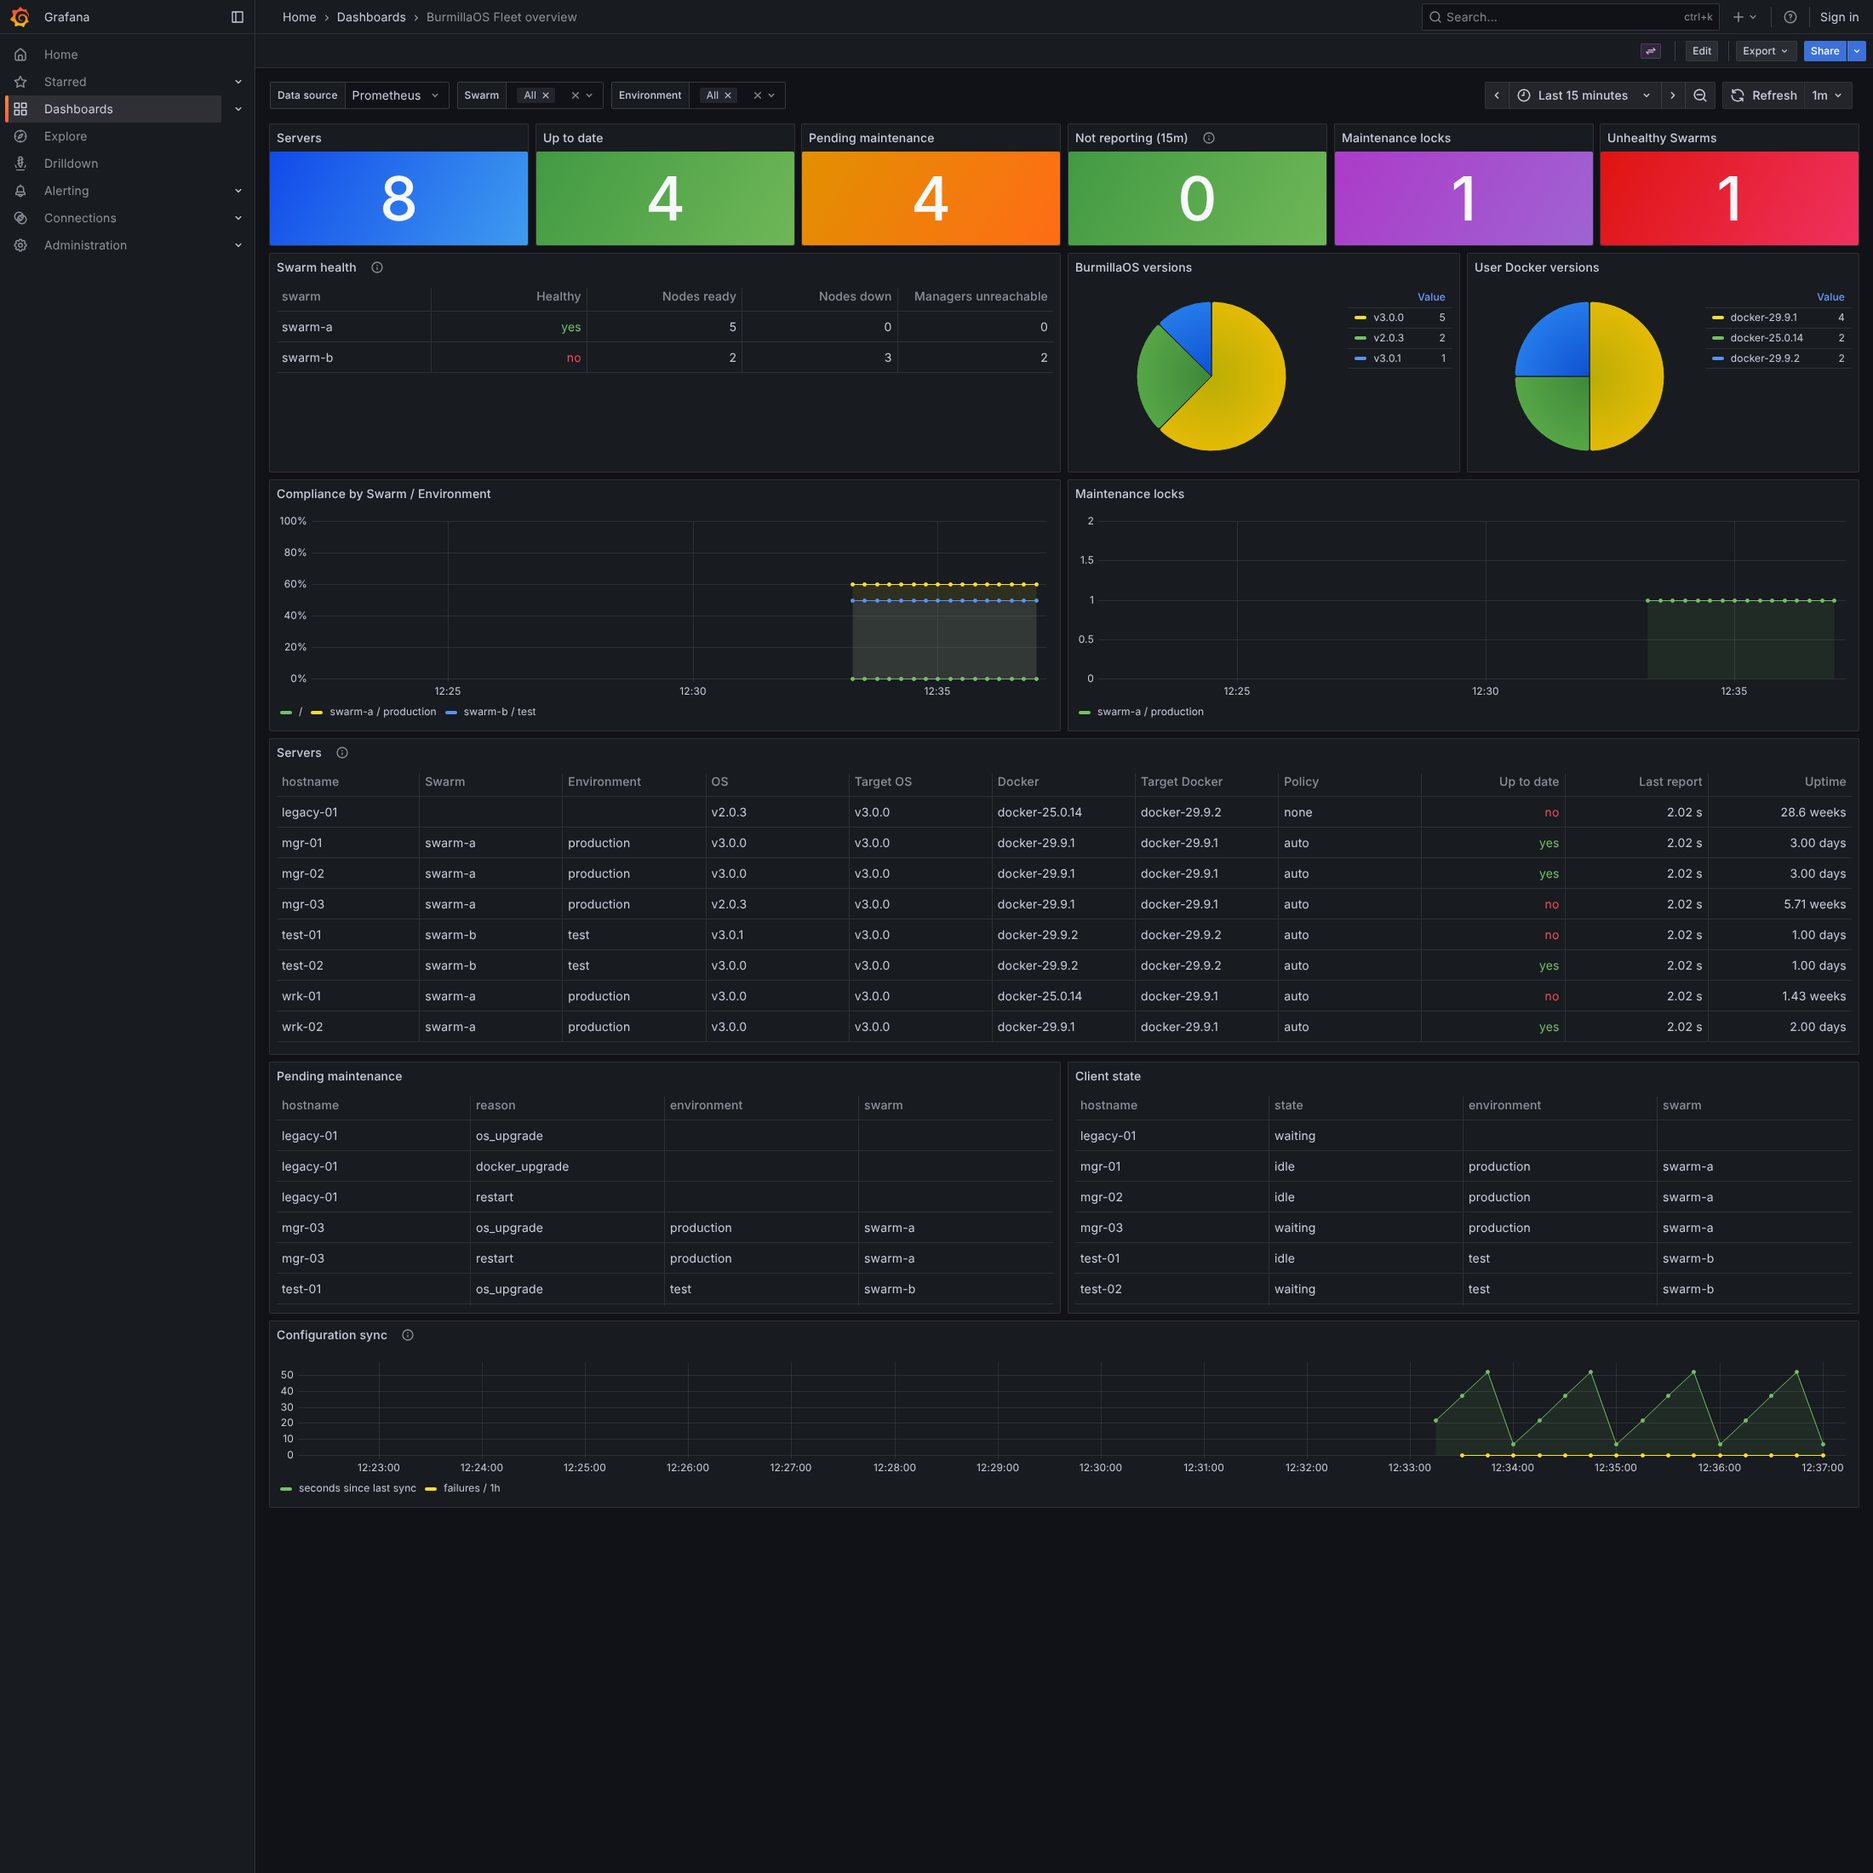
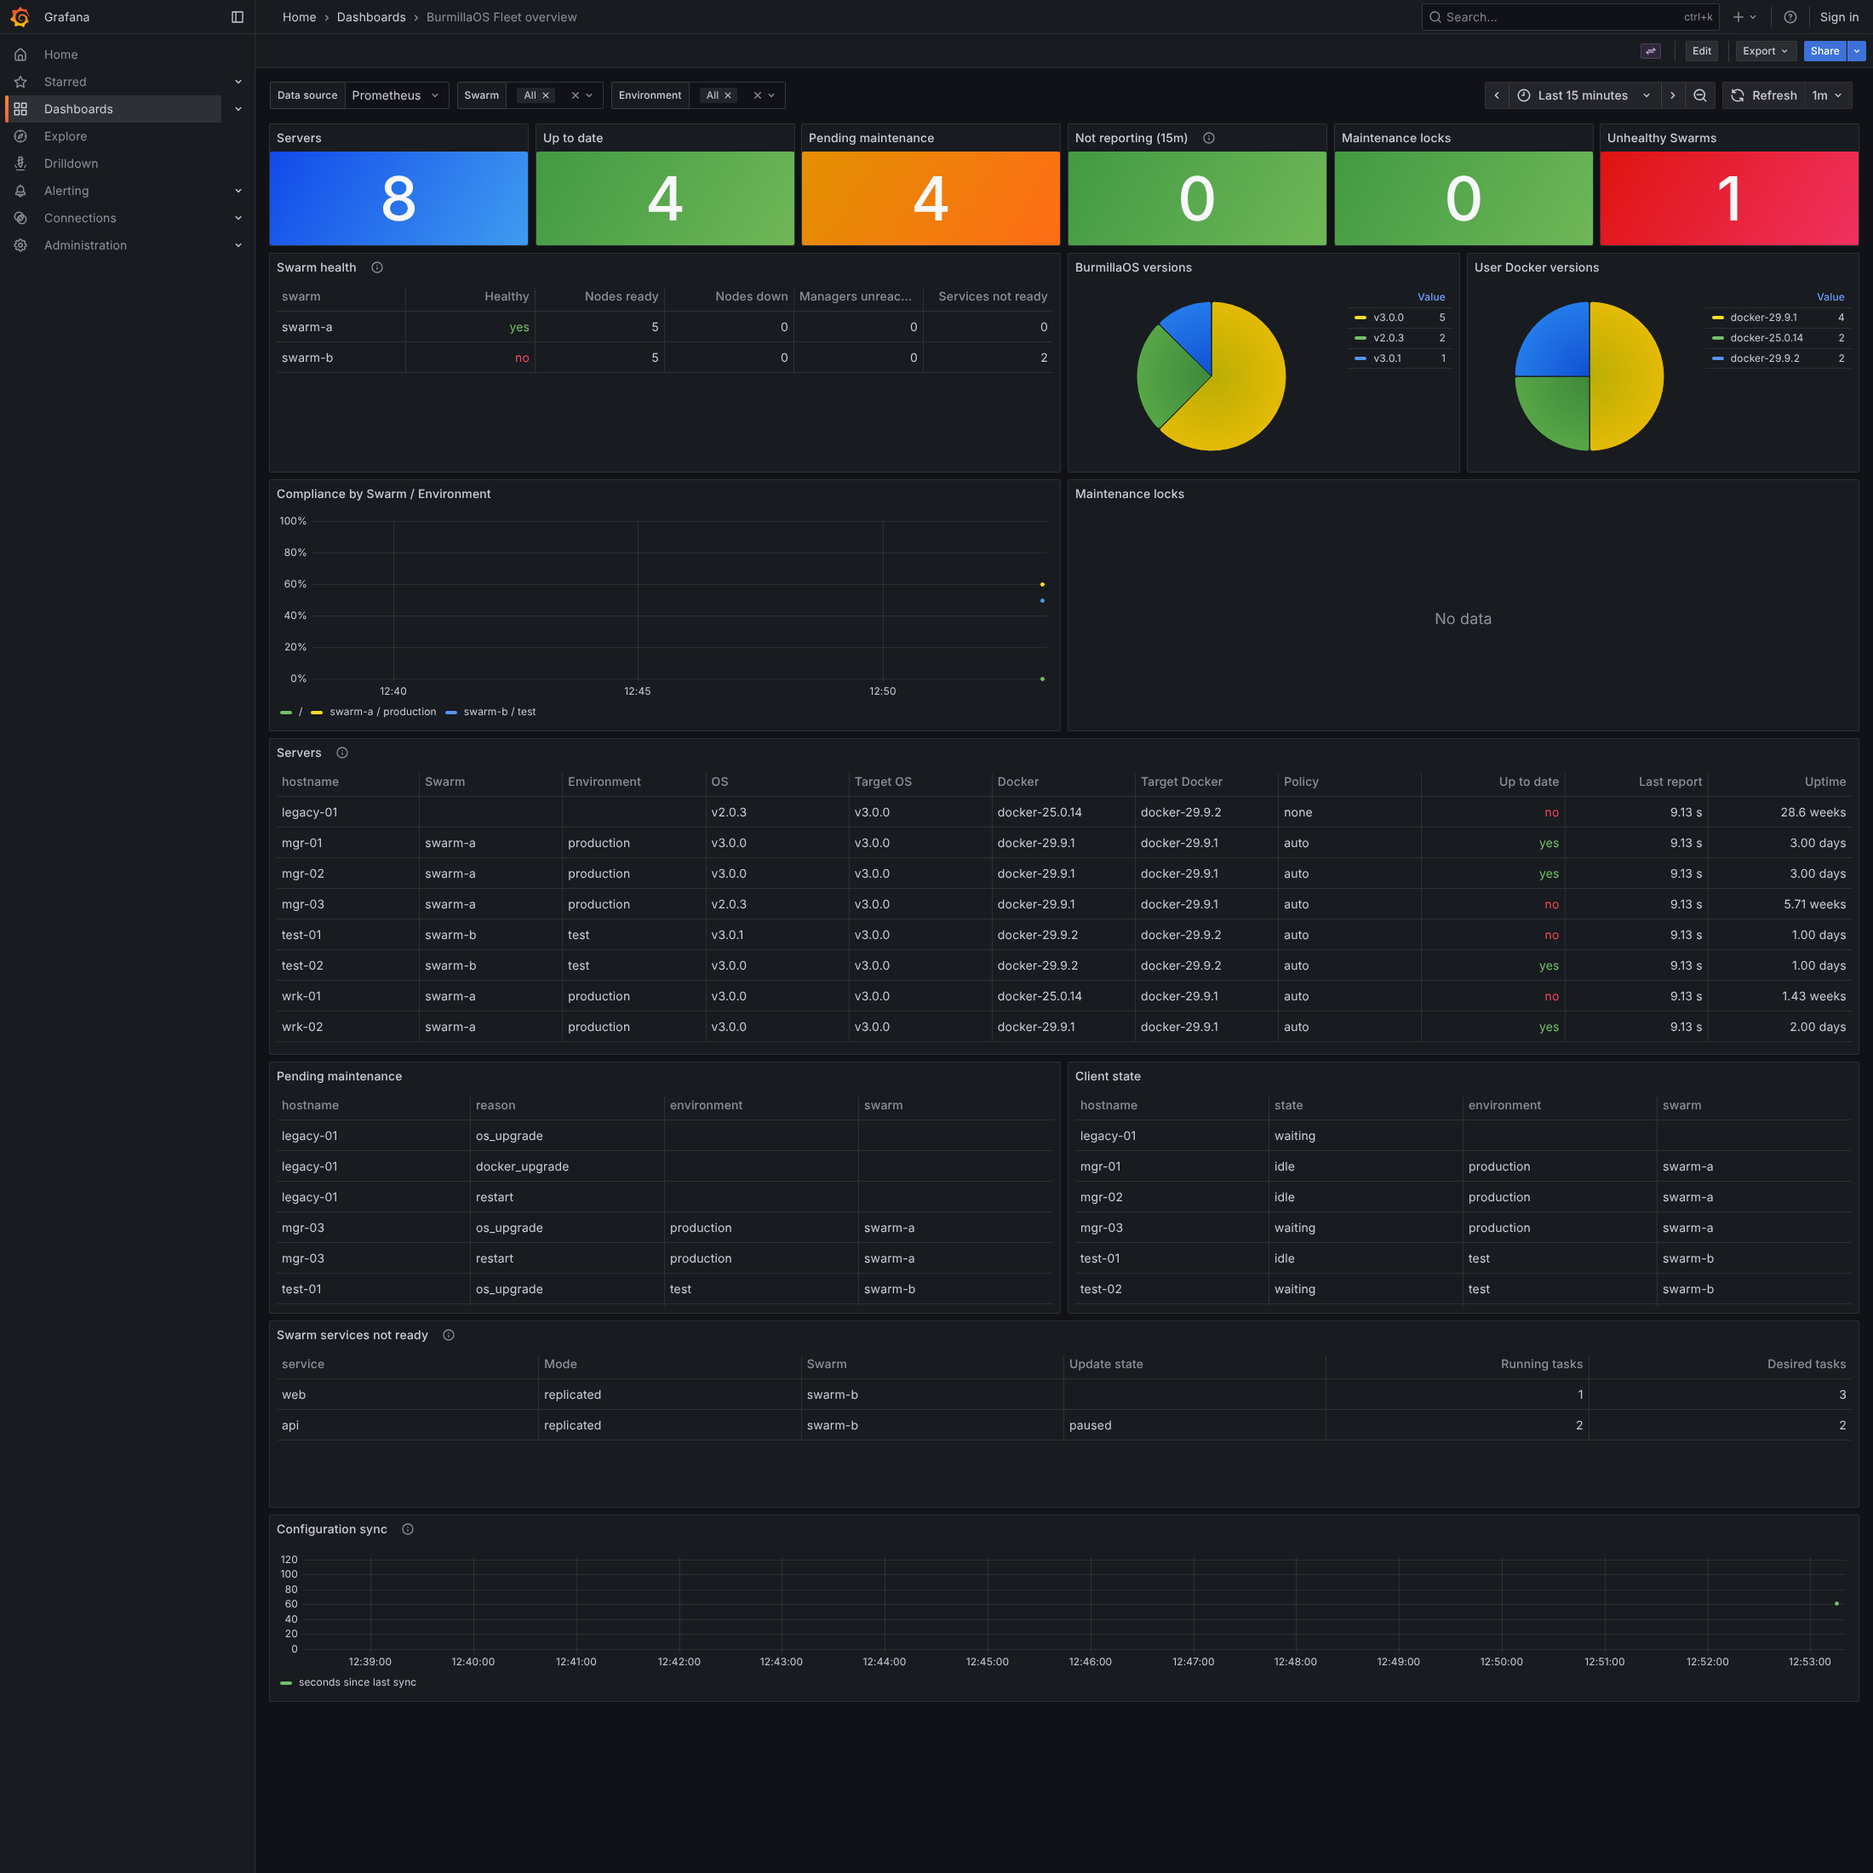
Require all Swarm services to be ready for maintenance locks
A maintenance lock is now granted, and released, only when every Swarm
service runs all of its desired tasks with its target configuration (no
update in progress, paused or rolling back). Global services may miss the
tasks of servers in maintenance. Managers report the service states, which
are also published as metrics and shown on the overview dashboard.

Claude-Session: https://claude.ai/code/session_01VTCWatDUuDVSNAoSnohWye

diff --git a/internal/server/server_test.go b/internal/server/server_test.go
@@ -78,11 +78,12 @@ func (e *env) get(path string) []byte {
 
 // report sends a healthy report. Managers see ready nodes out of 4 and
 // reachable managers out of 3.
-func (e *env) report(host, osVersion string, ready, reachable int) fleet.Desired {
+func (e *env) report(host, osVersion string, ready, reachable int, notReady ...ServiceState) fleet.Desired {
 	e.t.Helper()
 	st := &SwarmStatus{NodeID: host, ClusterID: "c1", LocalNodeState: "active"}
 	if strings.HasPrefix(host, "m") {
 		st.Manager, st.Nodes, st.NodesReady, st.Managers, st.ManagersReachable = true, 4, ready, 3, reachable
+		st.Services, st.ServicesReady, st.ServicesNotReady = 5, 5-len(notReady), notReady
 	}
 	code, body := e.post("/api/v1/report", Report{Hostname: host, OSVersion: osVersion, DockerVersion: "docker-29.9.2",
 		BootTime: e.now.Add(-time.Hour), State: "idle", SwarmStatus: st})
@@ -144,6 +145,19 @@ func TestMaintenanceLockFollowsSwarmHealth(t *testing.T) {
 	}
 	e.s.Store.Release("w1")
 
+	// Global services may miss the task of the server in maintenance,
+	// replicated services must be rescheduled first.
+	e.report("m2", "v2.0.3", 3, 2, ServiceState{Name: "agent", Mode: "global", DesiredTasks: 4, RunningTasks: 3})
+	if ok, msg := e.lock("w1"); !ok {
+		t.Fatalf("missing global task of the lock holder is fine: %s", msg)
+	}
+	e.s.Store.Release("w1")
+	e.report("m2", "v2.0.3", 3, 2, ServiceState{Name: "web", Mode: "replicated", DesiredTasks: 3, RunningTasks: 2})
+	if ok, msg := e.lock("w1"); ok || msg != "service web runs 2 of 3 tasks (Swarm s1, seen by m2)" {
+		t.Fatalf("missing replica must block: %s", msg)
+	}
+	e.report("m2", "v2.0.3", 3, 2)
+
 	// m1 is upgraded but the Swarm still sees it down: keep the lock.
 	e.now = e.now.Add(time.Minute)
 	if d := e.report("m1", "v3.0.0", 3, 2); d.MaintenanceRequired {
@@ -152,7 +166,13 @@ func TestMaintenanceLockFollowsSwarmHealth(t *testing.T) {
 	if _, held := e.s.Store.Locks(e.now)["m1"]; !held {
 		t.Fatal("lock must be kept until the Swarm is healthy")
 	}
-	// Once a manager sees all nodes ready, the next report releases it.
+	// All nodes are back but a service update is still rolling out.
+	updating := ServiceState{Name: "api", Mode: "replicated", DesiredTasks: 2, RunningTasks: 2, UpdateState: "updating"}
+	e.report("m1", "v3.0.0", 4, 3, updating)
+	if _, held := e.s.Store.Locks(e.now)["m1"]; !held {
+		t.Fatal("lock must be kept while a service is not at its target configuration")
+	}
+	// Once a manager sees everything ready, the next report releases it.
 	e.report("m2", "v2.0.3", 4, 3)
 	e.report("m1", "v3.0.0", 4, 3)
 	if _, held := e.s.Store.Locks(e.now)["m1"]; held {
@@ -175,6 +195,7 @@ func TestMaintenanceLockFollowsSwarmHealth(t *testing.T) {
 		`burmilla_fleet_server_maintenance_required{hostname="w1",swarm="s1",environment="prod",reason="os_upgrade"} 1`,
 		`burmilla_fleet_swarm_healthy{swarm="s1"} 0`,
 		`burmilla_fleet_swarm_nodes{swarm="s1",state="ready"} 4`,
+		`burmilla_fleet_swarm_services{swarm="s1",state="ready"} 5`,
 		`burmilla_fleet_config_info{revision="abc"} 1`,
 		`burmilla_fleet_config_sync_success 1`,
 	} {

diff --git a/internal/server/metrics.go b/internal/server/metrics.go
@@ -68,6 +68,9 @@ func (s *Server) handleMetrics(w http.ResponseWriter, r *http.Request) {
 		swHealth = &metric{name: "burmilla_fleet_swarm_healthy", help: "Whether the whole Swarm is healthy (servers in maintenance excluded).", typ: "gauge"}
 		swNodes  = &metric{name: "burmilla_fleet_swarm_nodes", help: "Swarm nodes as seen by the freshest manager report.", typ: "gauge"}
 		swMgrs   = &metric{name: "burmilla_fleet_swarm_managers", help: "Swarm managers as seen by the freshest manager report.", typ: "gauge"}
+		swSvcs   = &metric{name: "burmilla_fleet_swarm_services", help: "Swarm services by readiness as seen by the freshest manager report.", typ: "gauge"}
+		svcRun   = &metric{name: "burmilla_fleet_swarm_service_running_tasks", help: "Running tasks of Swarm services which are not ready.", typ: "gauge"}
+		svcWant  = &metric{name: "burmilla_fleet_swarm_service_desired_tasks", help: "Desired tasks of Swarm services which are not ready.", typ: "gauge"}
 	)
 
 	s.syncMu.Lock()
@@ -95,9 +98,11 @@ func (s *Server) handleMetrics(w http.ResponseWriter, r *http.Request) {
 		), 1)
 		window.add(base, b2f(d.MaintenanceWindowActive))
 		reason := ""
+		group := [2]string{d.Swarm, d.Environment}
+		lockCount[group] += 0 // every group gets a series, also without locks
 		if st.Lock != nil {
 			reason = st.Lock.Reason
-			lockCount[[2]string{d.Swarm, d.Environment}]++
+			lockCount[group]++
 		}
 		lockHeld.add(with([2]string{"reason", reason}), b2f(st.Lock != nil))
 		if st.Reported == nil {
@@ -139,11 +144,18 @@ func (s *Server) handleMetrics(w http.ResponseWriter, r *http.Request) {
 			swNodes.add(append(l, [2]string{"state", "down"}), float64(h.Status.Nodes-h.Status.NodesReady))
 			swMgrs.add(append(l, [2]string{"state", "reachable"}), float64(h.Status.ManagersReachable))
 			swMgrs.add(append(l, [2]string{"state", "unreachable"}), float64(h.Status.Managers-h.Status.ManagersReachable))
+			swSvcs.add(append(l, [2]string{"state", "ready"}), float64(h.Status.ServicesReady))
+			swSvcs.add(append(l, [2]string{"state", "not_ready"}), float64(h.Status.Services-h.Status.ServicesReady))
+			for _, svc := range h.Status.ServicesNotReady {
+				sl := append(append([][2]string{}, l...), [2]string{"service", svc.Name}, [2]string{"mode", svc.Mode}, [2]string{"update_state", svc.UpdateState})
+				svcRun.add(sl, float64(svc.RunningTasks))
+				svcWant.add(sl, float64(svc.DesiredTasks))
+			}
 		}
 	}
 
 	w.Header().Set("Content-Type", "text/plain; version=0.0.4; charset=utf-8")
-	for _, m := range []*metric{syncTime, syncOK, syncFail, revision, info, desired, lastSeen, upToDate, window, state, boot, restart, pending, lockHeld, locks, swHealth, swNodes, swMgrs} {
+	for _, m := range []*metric{syncTime, syncOK, syncFail, revision, info, desired, lastSeen, upToDate, window, state, boot, restart, pending, lockHeld, locks, swHealth, swNodes, swMgrs, swSvcs, svcRun, svcWant} {
 		m.write(w)
 	}
 }

diff --git a/internal/server/health.go b/internal/server/health.go
@@ -104,7 +104,27 @@ func (s *Server) checkSwarm(cfg *fleet.Config, swarm string, ignore map[string]b
 	if down := v.manager.Managers - v.manager.ManagersReachable; down > v.ignoredManager {
 		return v, fmt.Errorf("%d managers of Swarm %s are unreachable (seen by %s)", down, swarm, v.managerHost)
 	}
+	for _, svc := range v.manager.ServicesNotReady {
+		if err := serviceProblem(svc, v.ignored); err != nil {
+			return v, fmt.Errorf("%w (Swarm %s, seen by %s)", err, swarm, v.managerHost)
+		}
+	}
 	return v, nil
+}
+
+// serviceProblem tells why a service blocks maintenance. Global services
+// can miss one task per server in maintenance; replicated services must run
+// all replicas, so their tasks have been rescheduled to the other nodes.
+func serviceProblem(svc ServiceState, inMaintenance int) error {
+	switch svc.UpdateState {
+	case "updating", "paused", "rollback_started", "rollback_paused":
+		return fmt.Errorf("service %s is not at its target configuration (update %s)", svc.Name, svc.UpdateState)
+	}
+	missing := svc.DesiredTasks - svc.RunningTasks
+	if missing <= 0 || (svc.Mode == "global" && missing <= inMaintenance) {
+		return nil
+	}
+	return fmt.Errorf("service %s runs %d of %d tasks", svc.Name, svc.RunningTasks, svc.DesiredTasks)
 }
 
 // canStartMaintenance decides if hostname may take a maintenance lock.

diff --git a/internal/server/store.go b/internal/server/store.go
@@ -21,6 +21,19 @@ type SwarmStatus struct {
 	NodesReady        int    `json:"nodes_ready"`
 	Managers          int    `json:"managers"`
 	ManagersReachable int    `json:"managers_reachable"`
+	// Service counters, managers only. ServicesNotReady lists services
+	// which do not run all desired tasks or are in the middle of an update.
+	Services         int            `json:"services"`
+	ServicesReady    int            `json:"services_ready"`
+	ServicesNotReady []ServiceState `json:"services_not_ready,omitempty"`
+}
+
+type ServiceState struct {
+	Name         string `json:"name"`
+	Mode         string `json:"mode"`
+	DesiredTasks int    `json:"desired_tasks"`
+	RunningTasks int    `json:"running_tasks"`
+	UpdateState  string `json:"update_state"`
 }
 
 // Report is the body of POST /api/v1/report.

diff --git a/README.md b/README.md
@@ -12,7 +12,8 @@ which are part of a Docker Swarm:
 * Every server has a **maintenance window**. Upgrades and **scheduled
   restarts** only happen inside it.
 * Servers take a **maintenance lock** before they upgrade or restart. Locks are
-  only handed out while the **whole Swarm is healthy** and are only released
+  only handed out while the **whole Swarm is healthy**, including every
+  service running all its tasks with its target configuration, and are only released
   once the server is back and the Swarm is healthy again, so a rollout never
   takes down more nodes than you allow and stops on the first broken node.
 * Servers report back their state; Fleet Manager publishes it as
@@ -57,8 +58,10 @@ only when the server is inside its window, a slot is free in its Swarm +
 Environment, and the whole Swarm is healthy: every other member (that does not
 hold a lock) has reported recently, is `active` in the Swarm and not in error,
 and the freshest manager report shows no more nodes down or managers
-unreachable than there are servers in maintenance. Managers additionally must
-not break the Raft quorum. The lock is released when the server reports the
+unreachable than there are servers in maintenance, and **every service runs all
+of its desired tasks, healthy and with its target configuration** (no update in
+progress, paused or rolling back; a global service may miss the tasks of the
+servers in maintenance). Managers additionally must not break the Raft quorum. The lock is released when the server reports the
 target state **and** the Swarm is healthy again. Details are in
 [docs/api.md](docs/api.md); `GET /api/v1/swarms` shows why a Swarm is blocked.
 
@@ -136,7 +139,8 @@ maintenance windows. Put it on a trusted network. Full contract:
 | `burmilla_fleet_server_boot_timestamp_seconds` | hostname, swarm, environment |
 | `burmilla_fleet_maintenance_locks` | swarm, environment |
 | `burmilla_fleet_swarm_healthy` | swarm |
-| `burmilla_fleet_swarm_nodes` / `burmilla_fleet_swarm_managers` | swarm, state |
+| `burmilla_fleet_swarm_nodes` / `burmilla_fleet_swarm_managers` / `burmilla_fleet_swarm_services` | swarm, state |
+| `burmilla_fleet_swarm_service_running_tasks` / `burmilla_fleet_swarm_service_desired_tasks` | swarm, service, mode, update_state (services which are not ready) |
 | `burmilla_fleet_config_info` | revision |
 | `burmilla_fleet_config_last_sync_timestamp_seconds`, `burmilla_fleet_config_sync_success`, `burmilla_fleet_config_sync_failures_total` | |
 

diff --git a/docs/api.md b/docs/api.md
@@ -98,14 +98,23 @@ Clients report their current state. Body:
     "nodes": 5,
     "nodes_ready": 5,
     "managers": 3,
-    "managers_reachable": 3
+    "managers_reachable": 3,
+    "services": 12,
+    "services_ready": 11,
+    "services_not_ready": [
+      {"name": "web", "mode": "replicated", "desired_tasks": 3, "running_tasks": 2, "update_state": ""}
+    ]
   }
 }
 ```
 
-`swarm_status` comes from the User Docker `/info` endpoint (and `/nodes` on
-managers). It is omitted when User Docker is not reachable. The node
-counters are only filled in by managers.
+`swarm_status` comes from the User Docker `/info` endpoint, and on managers
+also from `/nodes` and `/services?status=true`. It is omitted when User Docker
+is not reachable. Node and service counters are only filled in by managers.
+A service is ready when it runs all desired tasks (Swarm reports a task with
+a health check as running only once it is healthy) and no update is in
+progress (`updating`, `paused`, `rollback_started`, `rollback_paused`), i.e.
+all tasks run the target configuration. Jobs are skipped.
 
 `state` is one of `idle`, `downloading`, `upgrading`, `waiting`, `error`
 (free text is accepted, these are the values the bundled client sends).
@@ -137,8 +146,11 @@ The lock is granted only when all of these hold:
    * report `local_node_state: active` and the same Swarm cluster ID.
 
    The freshest manager report must not show more nodes down / managers
-   unreachable than there are lock holders. Without any manager report the
-   Swarm counts as unhealthy.
+   unreachable than there are lock holders, and every service must be
+   ready: running all desired tasks with its target configuration. A global
+   service may miss one task per server in maintenance; replicated services
+   must have been rescheduled to the remaining nodes. Without any manager
+   report the Swarm counts as unhealthy.
 4. If the requester is a manager, taking it down must keep the Raft quorum
    (with 3+ managers), or no other manager may be unavailable (1–2 managers).
 
